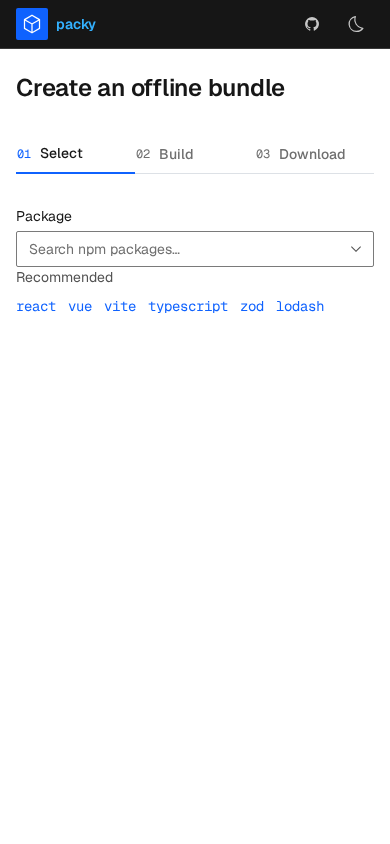
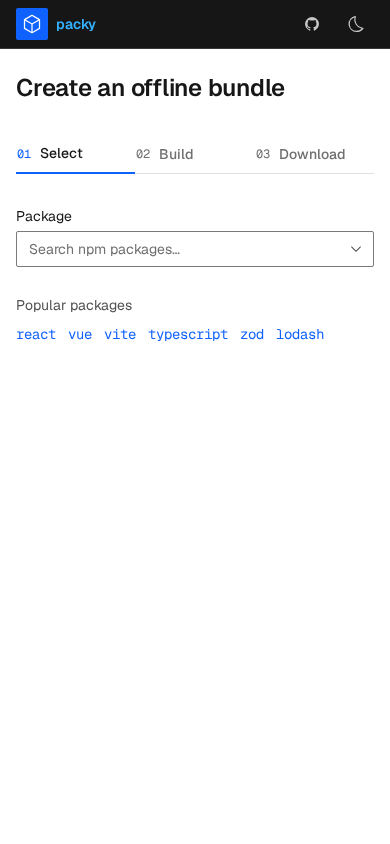
fix: rename popular packages and open up spacing
Rename the shortcut list to Popular packages, add breathing room below the package field, and restore the semantic spacing aliases used by the local Stack and Inline primitives. The selected state now uses larger group gaps.

diff --git a/src/components/package-picker.svelte b/src/components/package-picker.svelte
@@ -572,7 +572,7 @@
 			</Inline>
 		</Stack>
 	{:else if packument}
-		<Stack gap="xl">
+		<Stack gap="2xl">
 			<div class="package-header">
 				<Stack gap="xs">
 					<Text variant="subheading" as="h2">{packageName}</Text>
@@ -593,7 +593,7 @@
 				</Alert>
 			{/if}
 
-			<Stack gap="md">
+			<Stack gap="lg">
 				{#if customMode}
 					<div class="field">
 						<label class="field__label" for="version-spec">
@@ -720,7 +720,7 @@
 			{/if}
 			{#if searchTerm.trim().length === 0}
 				<div class="recommended">
-					<p class="recommended__label">Recommended</p>
+					<p class="recommended__label">Popular packages</p>
 					<div class="recommended__list">
 						{#each POPULAR_PACKAGES as name}
 							<button
@@ -770,6 +770,7 @@
 		display: flex;
 		flex-direction: column;
 		gap: var(--space-2);
+		margin-top: var(--space-4);
 	}
 
 	.recommended__label {

diff --git a/tests/workflow.spec.ts b/tests/workflow.spec.ts
@@ -92,7 +92,7 @@ test("mobile layout stays focused", async ({ page }) => {
 			.getByRole("navigation", { name: "Workflow" })
 			.locator('[aria-current="step"]'),
 	).toContainText("Select");
-	await expect(page.getByText("Recommended")).toBeVisible();
+	await expect(page.getByText("Popular packages")).toBeVisible();
 	await expect(page.getByRole("button", { name: "react" })).toBeVisible();
 	expect(
 		await page.evaluate(

diff --git a/src/styles/tokens.css b/src/styles/tokens.css
@@ -209,6 +209,13 @@
 :root {
 	--layout-code-max: 20rem;
 	--layout-menu-max: 20rem;
+	--space-xs: var(--space-1);
+	--space-sm: var(--space-2);
+	--space-md: var(--space-3);
+	--space-lg: var(--space-4);
+	--space-xl: var(--space-5);
+	--space-2xl: var(--space-6);
+	--space-3xl: var(--space-7);
 	--border-width: 1px;
 	--border-width-emphasis: 2px;
 	--font-weight-medium: 500;
